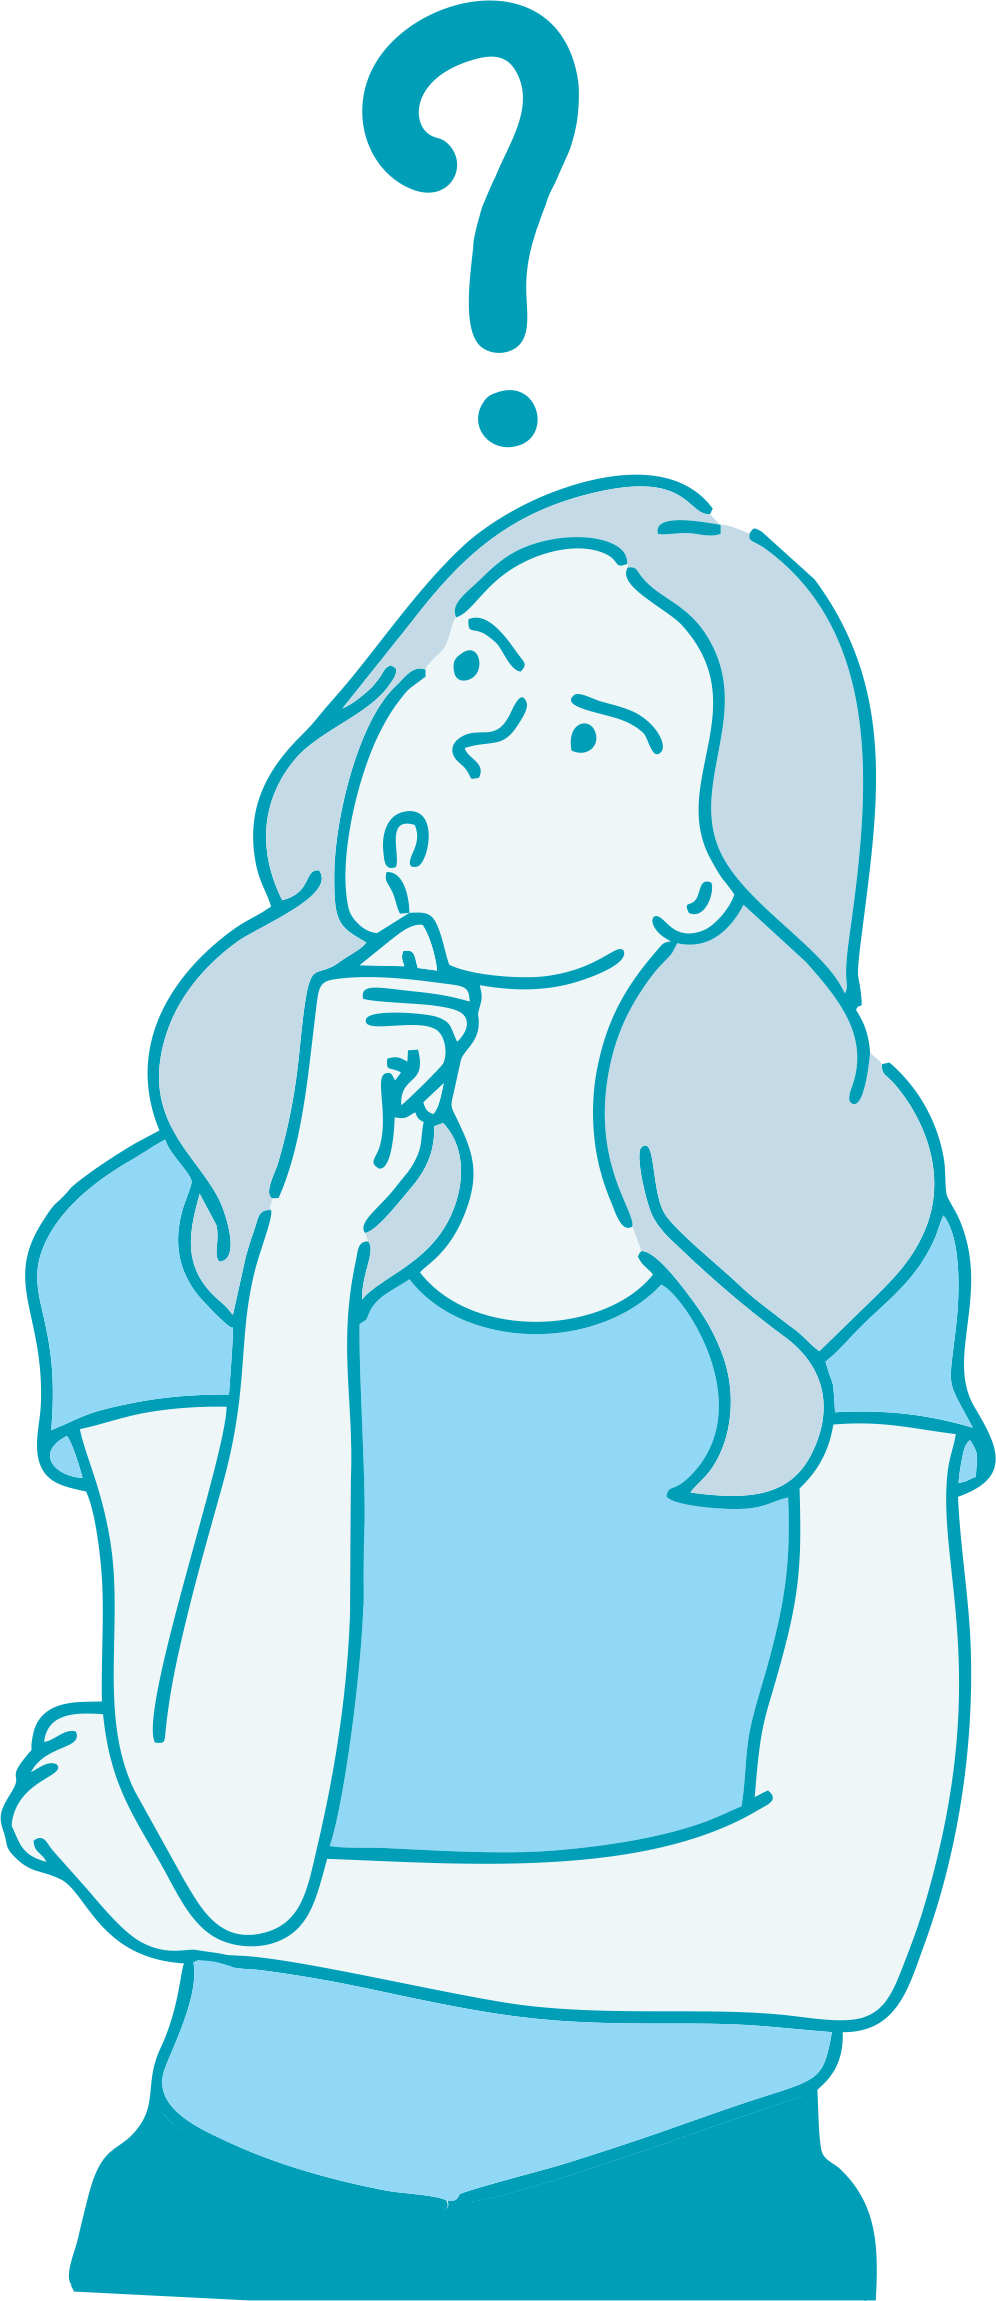
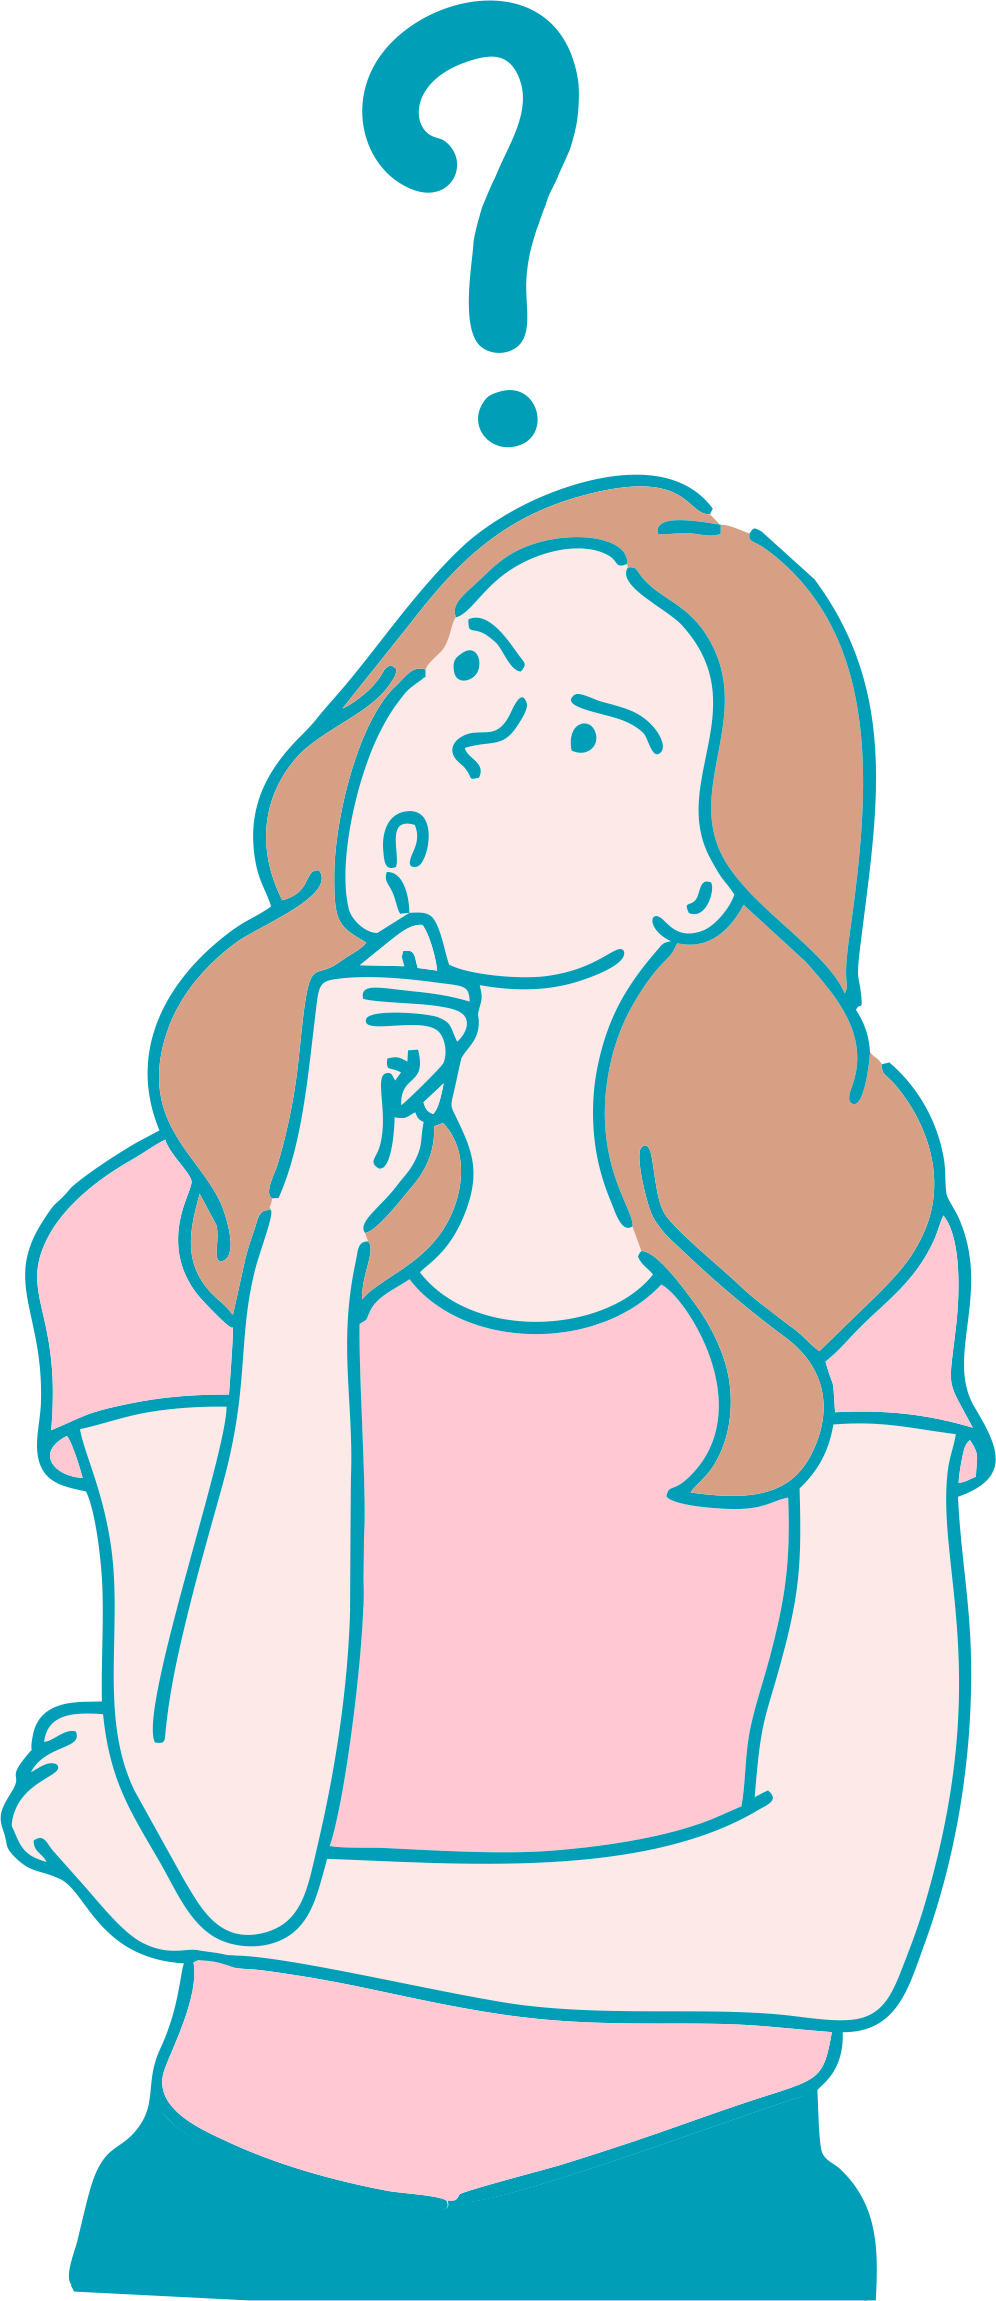
colores optimizados

Changed region(s): [[0.0311, 0.1851, 0.9649, 0.8023], [0.1556, 0.8331, 0.8404, 0.9565], [0.9649, 0.6171, 0.996, 0.648]]

diff --git a/style.css b/style.css
@@ -1,13 +1,17 @@
 :root {
     --celeste: #009fb7;
     --camel: #fffafb;
+    --middle-blue-green: #7dcfb6ff;
+    --pacific-blue: #00b2caff;
+    --yale-blue: #1d4e89ff;
 }
 
-body{
+body {
     font-size: 14px;
     font-family: 'Roboto', sans-serif;
     font-weight: 400;
-    background-color: var(--celeste);
+    background-color: #D9AFD9;
+    background-image: linear-gradient(0deg, #D9AFD9 0%, #97D9E1 100%); 
     display: flex;
     justify-content: center;
     height: 100vh;
@@ -15,111 +19,114 @@ body{
 
 }
 
-header{
-   width: 60%;
+header {
+    width: 60%;
 }
 
-.header__logo{
+.header__logo {
     width: 16rem;
 }
 
-.container{
-    background-color: var(--camel);
-    width: 85%;
-    height: 70%;
+.container {
+    background-color: #fffafb63;
+    box-shadow: 0 0 25px -8px rgba(21, 118, 145, 0.478);
+    width: 75%;
+    height: 65%;
     border-radius: 20px;
     padding: 40px;
 }
 
-.container__content{
+.container__content {
     width: 100%;
     display: flex;
     justify-content: space-around;
     align-items: flex-start;
 }
 
-.container__content-left{
+.container__content-left {
     display: flex;
-    flex-direction:column;
+    flex-direction: column;
     justify-content: center;
     align-items: center;
     width: 60%;
     margin-top: 40px;
 }
 
-.inputText{
+.inputText {
     padding: 20px;
     width: 80%;
     height: 24rem;
-    border: 2px solid var(--celeste);
+    border: 2px solid var(--pacific-blue);
     outline: none;
     resize: none;
     box-shadow: 0 0 25px -8px rgba(21, 118, 145, 0.478);
-    background-color: #e0f6fd7b;
+    background-color: var(--camel);
     border-radius: 20px;
     font-family: 'Roboto', sans-serif;
     font-size: 27px;
     text-align: center;
+    color: var(--pacific-blue);
 }
 
-.inputText::placeholder{
+.inputText::placeholder {
     color: var(--celeste);
     opacity: 0.5;
 }
 
-.botones{
+.botones {
     display: flex;
     justify-content: center;
     align-items: center;
     margin-top: 40px;
 }
 
-.btn__style{
+.btn__style {
     margin: 0 14px;
-    padding: 12px;
+    padding: 16px;
     font-size: 16px;
     font-weight: 600;
-    background-color: var(--celeste);
+    letter-spacing: 2px;
+    background-color: rgba(0, 178, 202, 0.721);
     border: none;
     border-radius: 10px;
     color: var(--camel);
     cursor: pointer;
 }
 
-.container__content-right{
+.container__content-right {
     padding: 20px;
     display: flex;
-    flex-direction:column;
+    flex-direction: column;
     justify-content: flex-start;
     align-items: center;
     width: 25%;
-    border: 2px solid var(--celeste);
+    border: 2px solid var(--pacific-blue);
     outline: none;
     resize: none;
     box-shadow: 0 0 25px -8px rgba(21, 118, 145, 0.478);
-    background-color: #e0f6fd7b;
+    background-color: var(--camel);
     border-radius: 20px;
     font-family: 'Roboto', sans-serif;
     font-size: 20px;
     text-align: center;
     position: relative;
-    height: 34rem;
+    height: 32rem;
 }
 
-.container__content-rigth-image{
+.container__content-rigth-image {
     display: block;
 }
 
-.container__content-rigth-image.active{
+.container__content-rigth-image.active {
     display: none;
 }
 
-.imgDerecha{
+.imgDerecha {
     width: 150px;
     margin-bottom: 20px;
 }
 
-.inputText2{
+.inputText2 {
     width: 100%;
     height: 100%;
     margin-bottom: 20px;
@@ -135,20 +142,20 @@ header{
     text-decoration: none;
 }
 
-.inputText2.active{
+.inputText2.active {
     display: block;
 }
 
-.inputText2.active:focus-visible{
+.inputText2.active:focus-visible {
     opacity: 0;
 }
 
-.parrafo{
+.parrafo {
     font-size: 16px;
     font-weight: 300;
 }
 
-.parrafoUno{
+.parrafoUno {
     font-weight: 400;
     margin-bottom: 10px;
 }
